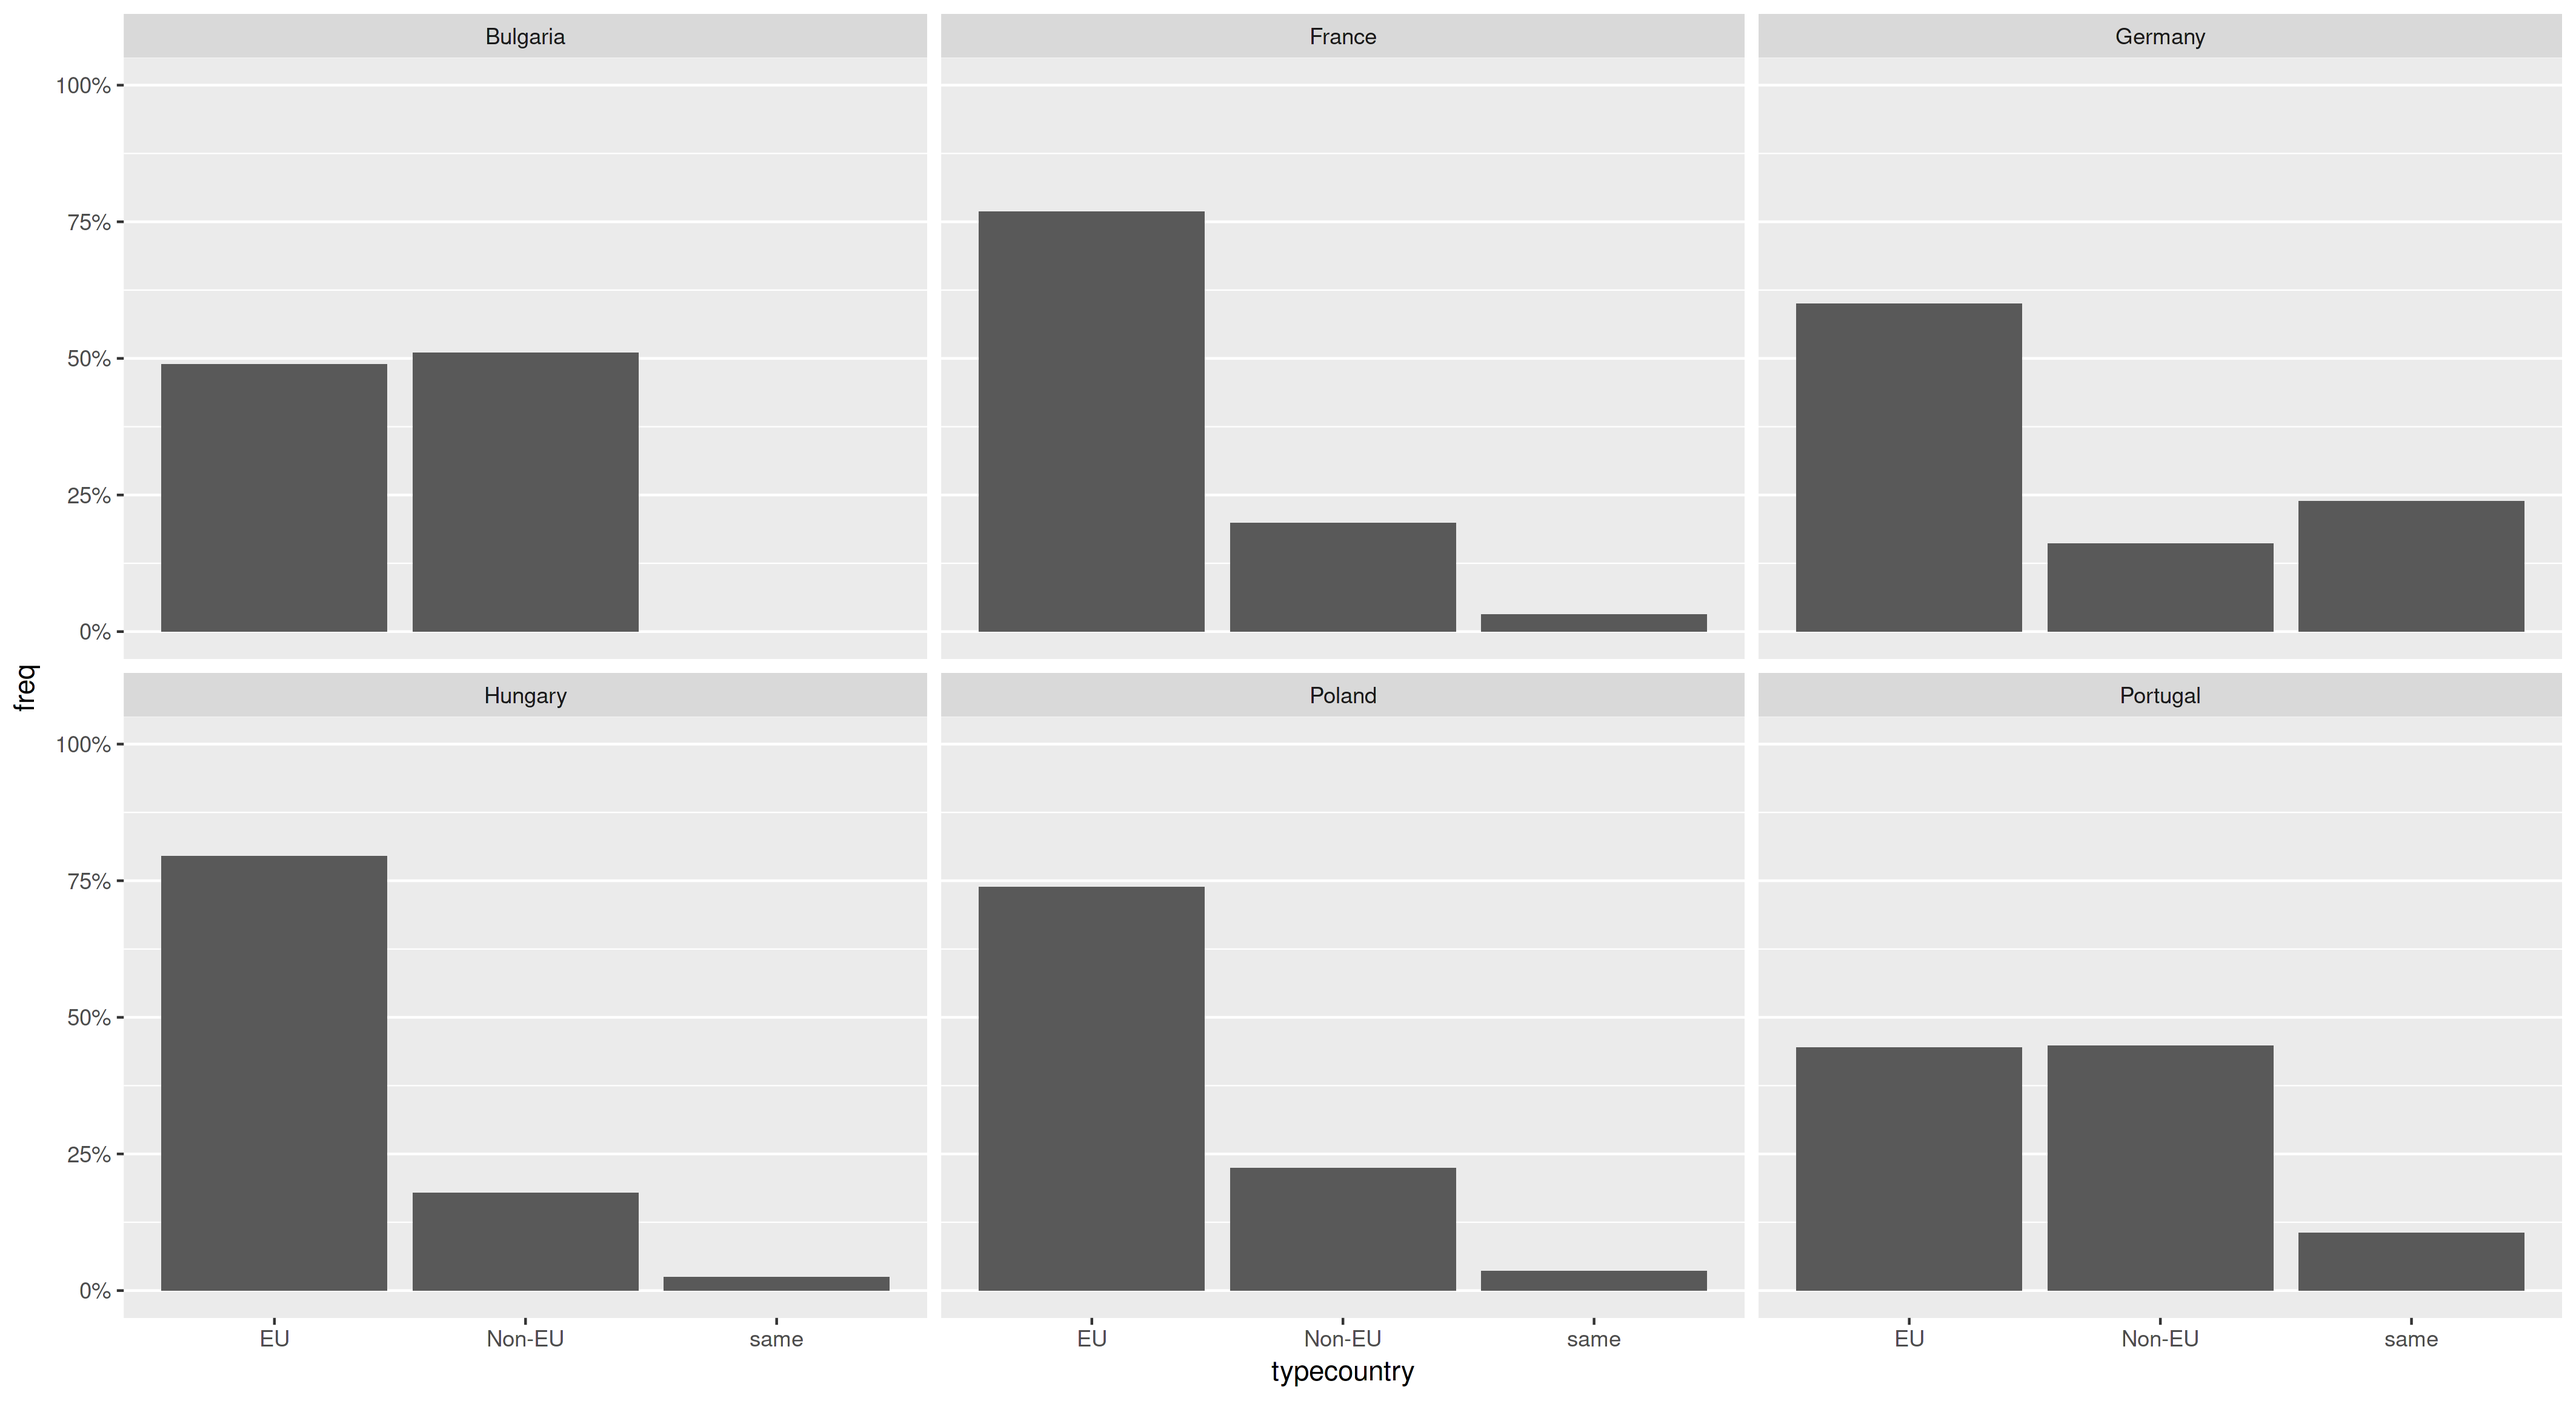
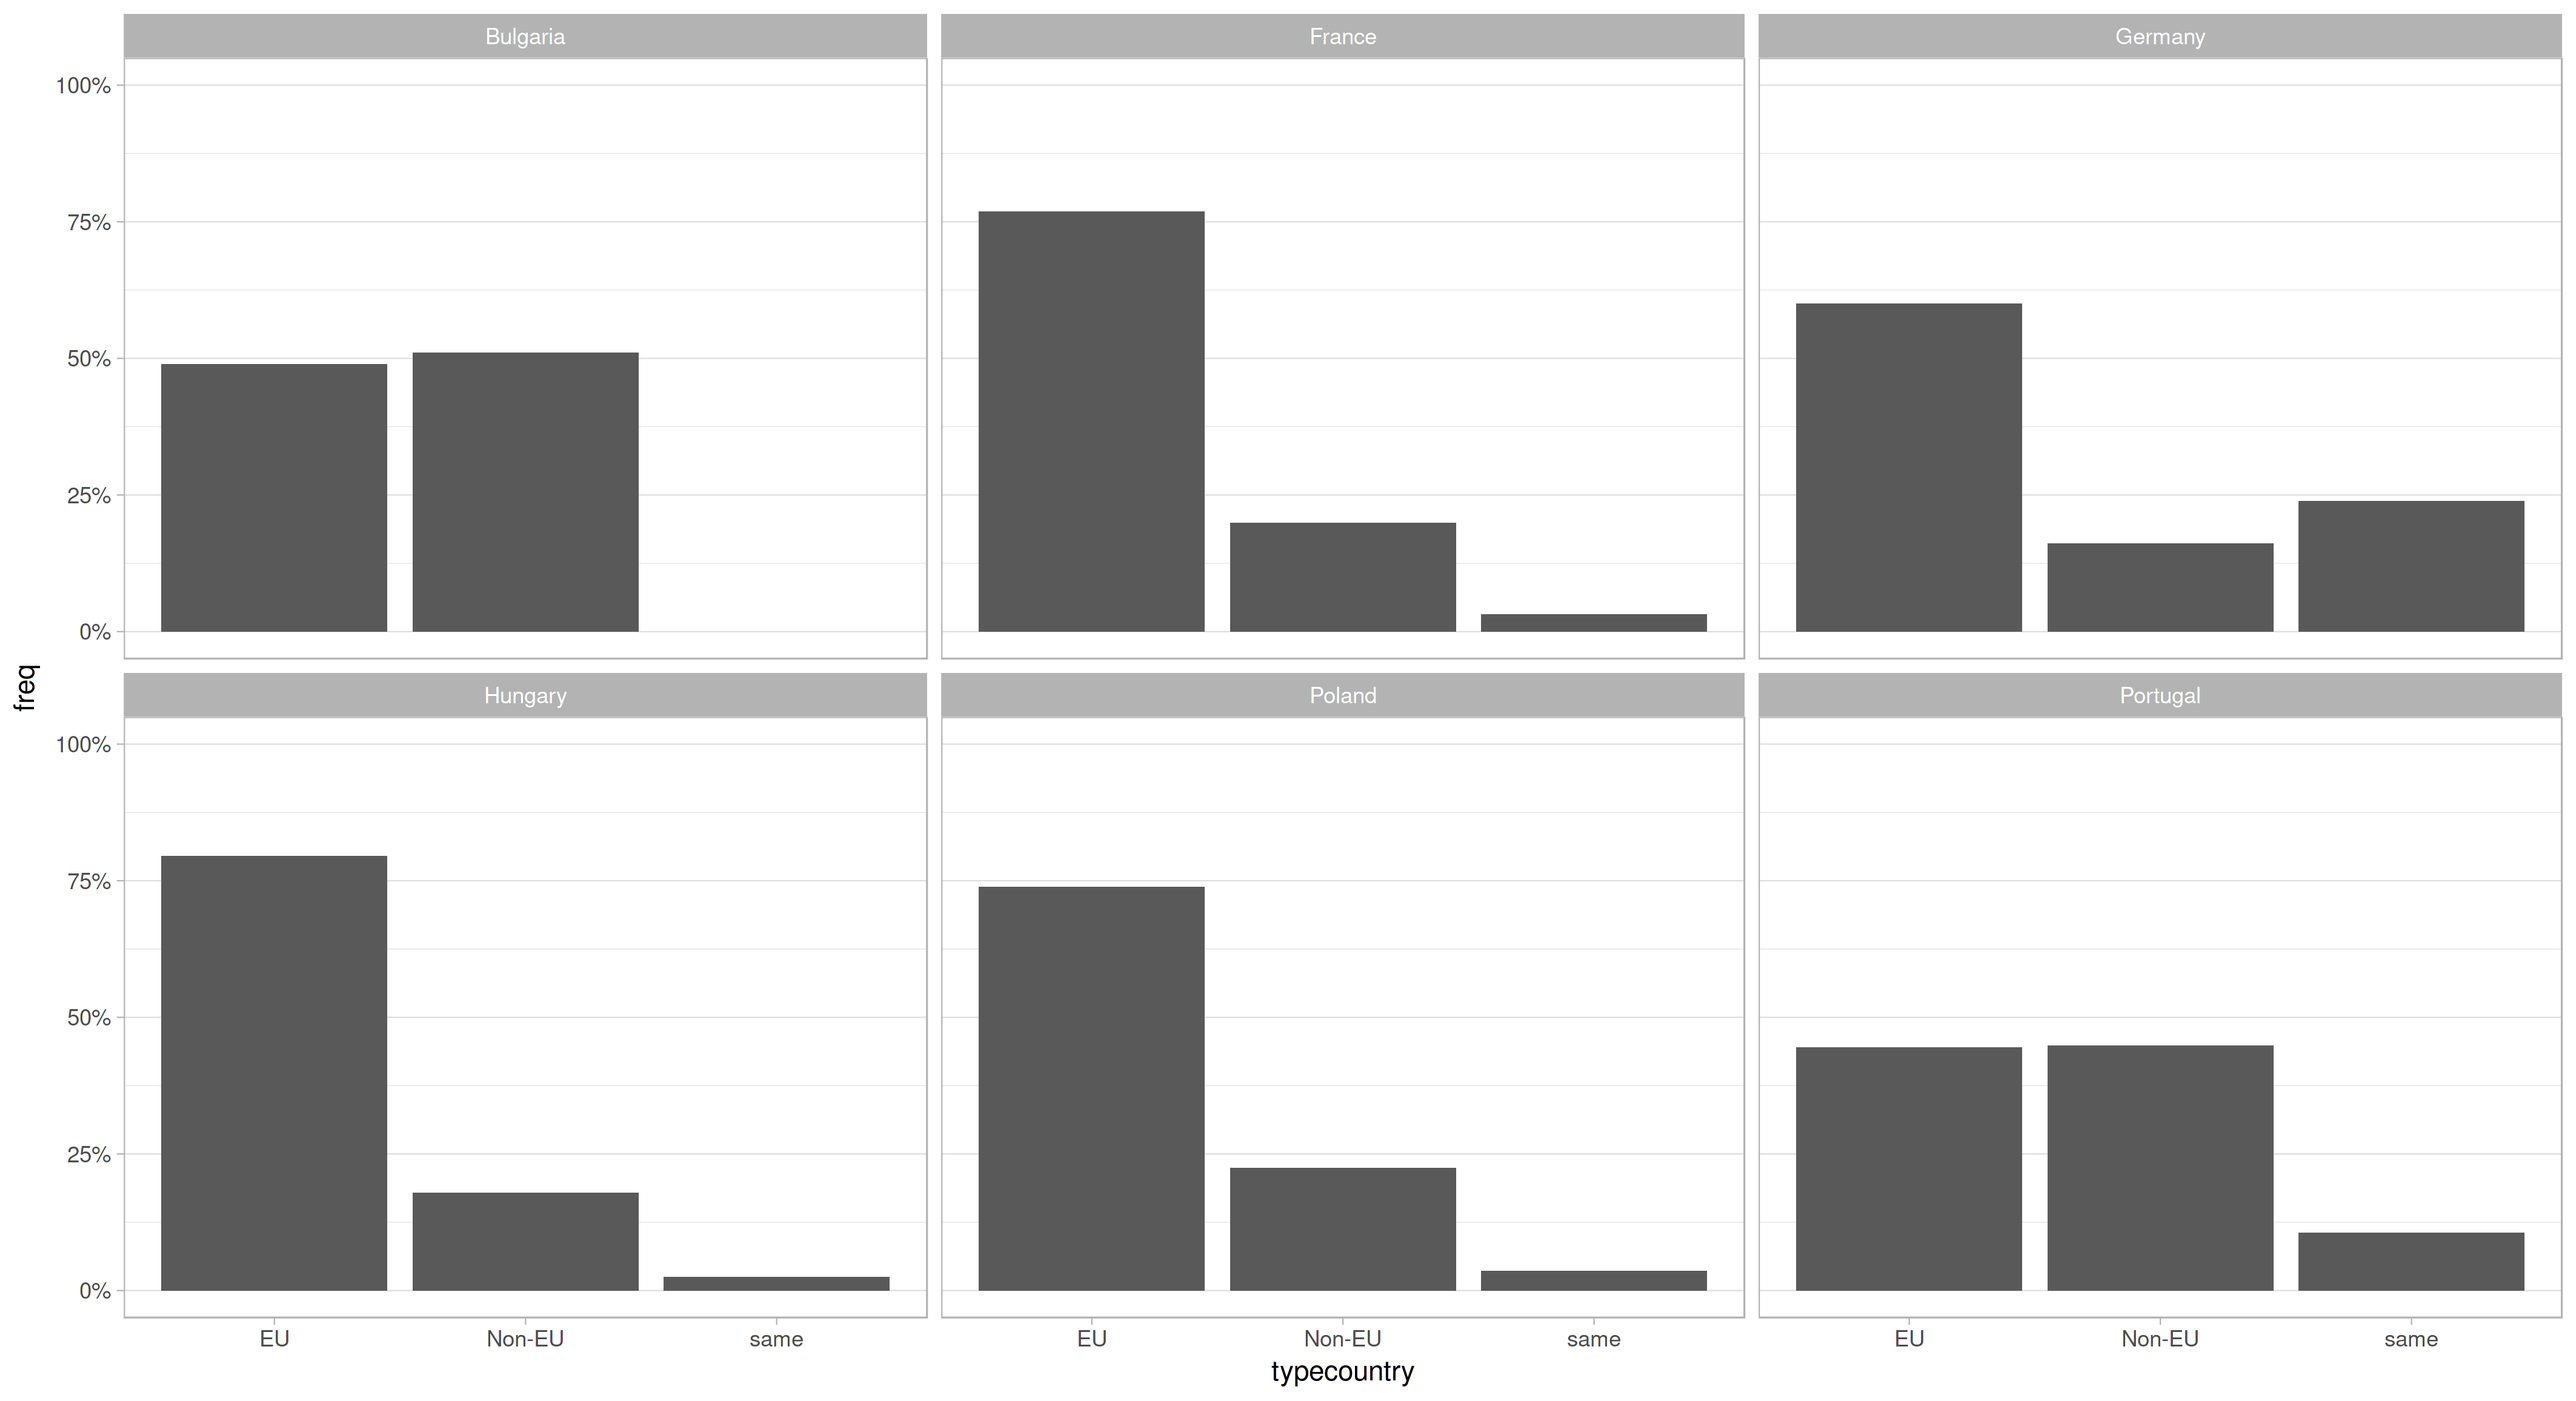
Mejora de themes

Changed region(s): [[0.0311, 0.0, 1.0, 0.9339]]

diff --git a/sistercities.md b/sistercities.md
@@ -446,11 +446,12 @@ p2 + theme(legend.position = "bottom")
 
 ```
 
-We could also for instance remove the lines of the grid in one of the previous bargraphs. 
+We could also for instance remove the lines of the grid in one of the previous bargraphs modifying the white/black-theme (`theme_light()`):
 
 ```{r}
-p5 + theme(panel.grid.major.x = element_blank(),
-  panel.grid.minor.x = element_blank())
+p5 + theme_light() +
+    theme(panel.grid.major.x = element_blank(),
+          panel.grid.minor.x = element_blank())
 
 ```
 
